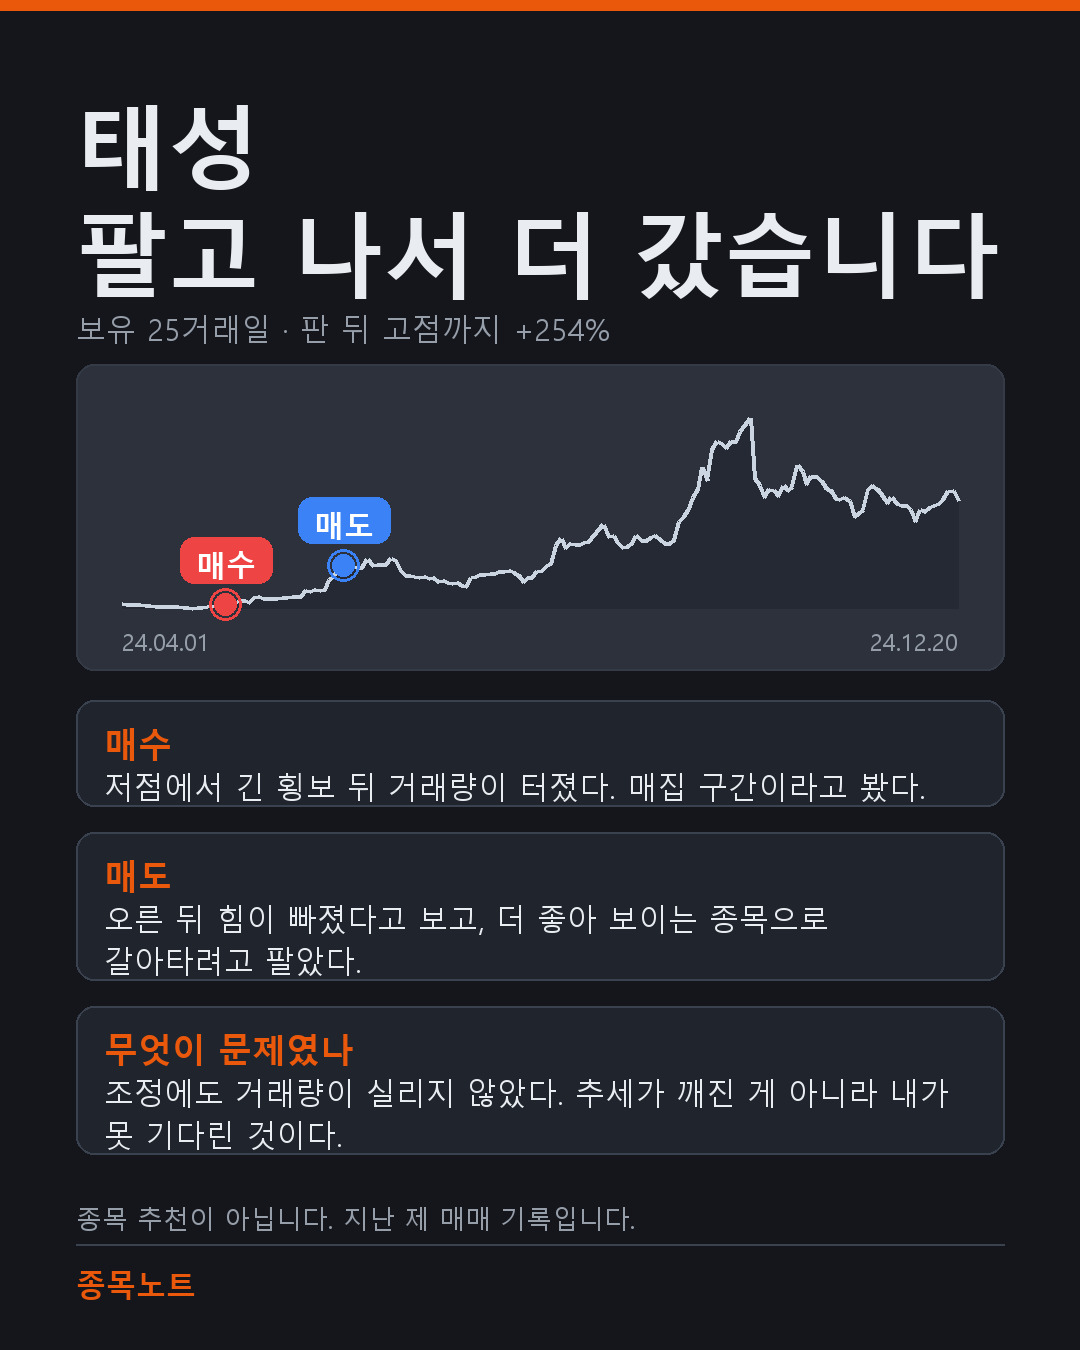
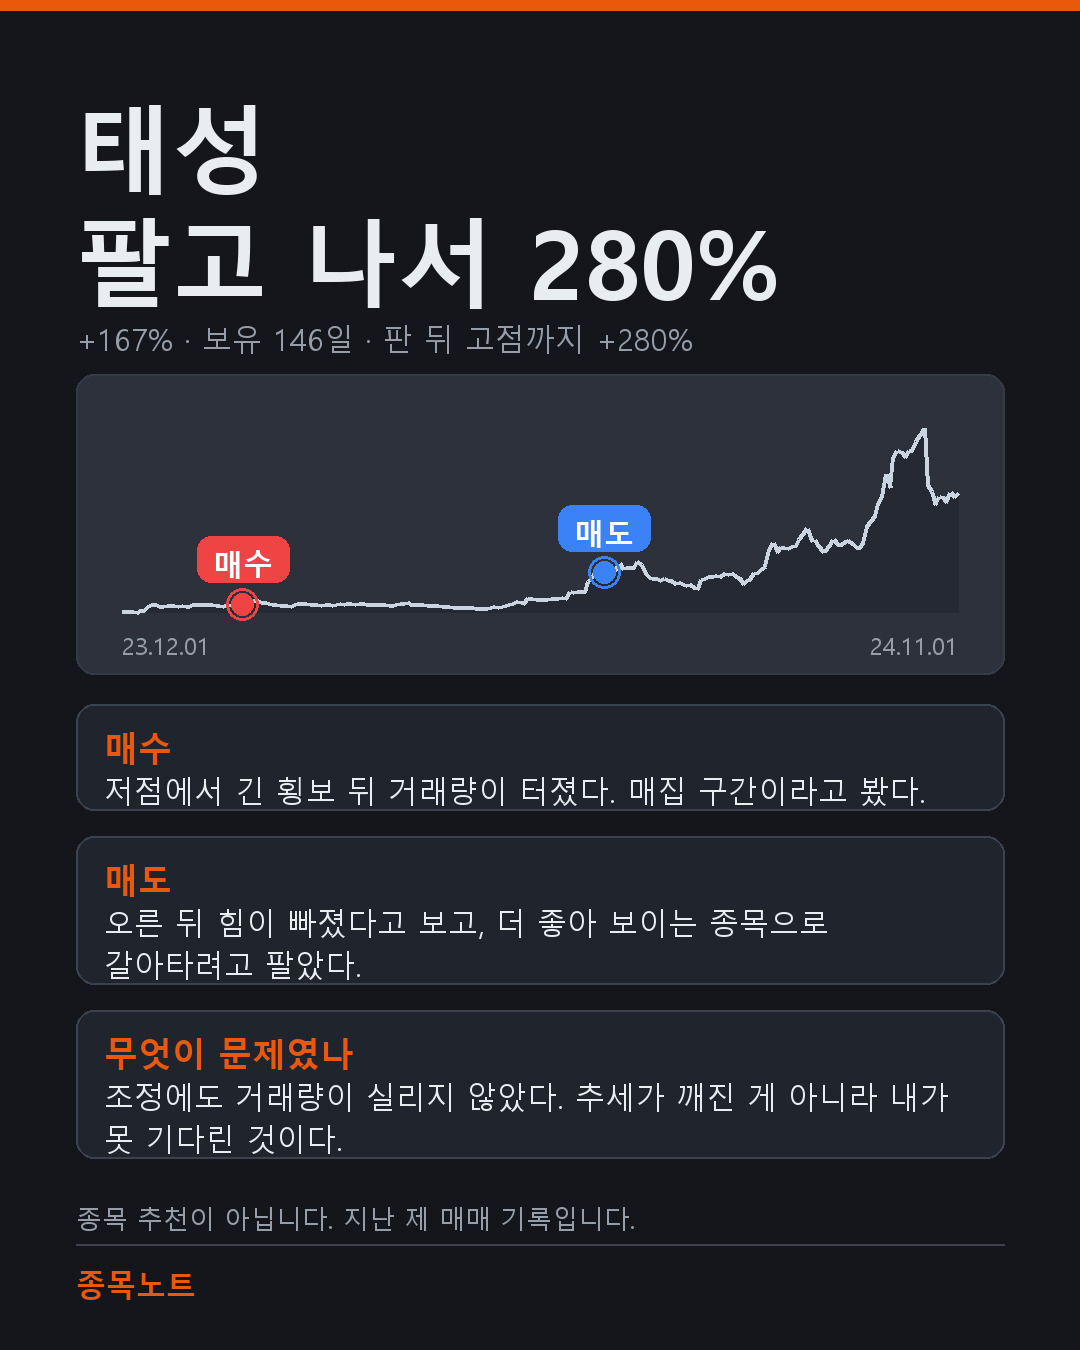
fix: 매매 기록을 주문내역 캡처로 맞추고 카드를 다시 뽑는다
증권사 주문내역 캡처에서 날짜와 체결가를 옮겨 적고, 그날의 저가~고가 안에
드는지 시세로 다시 맞춰 봤다.

태성 — 2024-01-19 500주 @4,350, 2024-02-20 130주 @4,200 매수.
2024-06-13 630주 @11,540 매도. 평균 매수 4,319원.
2023년과 2025년 같은 날짜는 가격대가 전혀 안 맞아 2024년으로 확정했다.

대원전선 — 2026-04-23 1,478주 @8,140 매수, 2026-05-04 739주 @18,000과
739주 @17,000 매도. 8,140원이 그 가격대에 든 날은 2026-04-23·24 이틀뿐이라
날짜가 하나로 좁혀졌다.

**글에 적힌 수익률이 실제와 다르다.**

  태성   글 "200% 먹고 팔았는데 400% 더 갔다"
         실제 +167% 에 팔았고, 판 자리에서 +280% 더 갔다
  대원   +115%, 판 뒤 이틀 더 올라 +16% 에서 꺾였다

카드는 실제 숫자로 만들었다. 대기열 글의 200%/400% 도 고쳐야 한다.

체결가를 적으면 그것으로 세도록 buy_price/sell_price 를 받는다. 종가로
재면 실제와 몇 %씩 어긋난다. 보유 기간은 달력 기준으로 쓴다 — 거래일로
쓰면 제목("11일 만에")과 어긋난다.

짧은 매매는 두 점이 붙어 라벨이 겹쳐서, 가까우면 좌우로 갈라 놓는다.

diff --git a/scripts/make_trade_cards.py b/scripts/make_trade_cards.py
@@ -54,7 +54,7 @@ def fetch_daily(code, start, end):
     raw = urllib.request.urlopen(req, timeout=30).read().decode("utf-8")
     rows = json.loads(raw.replace("'", '"'))
     # 첫 줄은 머리글이다
-    return [{"d": r[0], "c": r[4], "v": r[5]} for r in rows[1:] if r[4]]
+    return [{"d": r[0], "h": r[2], "l": r[3], "c": r[4], "v": r[5]} for r in rows[1:] if r[4]]
 
 
 def _at(rows, date):
@@ -90,13 +90,22 @@ def draw_chart(d, rows, box, buy_i, sell_i):
     f_tag = C._font(True, 30)
     f_small = C._font(False, 24)
 
-    def mark(i, color, label, above):
+    # 짧은 매매는 두 점이 붙어 라벨이 겹친다. 그때는 좌우로 갈라 놓는다.
+    close = abs(X(sell_i) - X(buy_i)) < 190
+
+    def mark(i, color, label, above, side=None):
         x, y = X(i), Y(rows[i]["c"])
         r = 11
         d.ellipse([x - r, y - r, x + r, y + r], fill=color)
         d.ellipse([x - r - 5, y - r - 5, x + r + 5, y + r + 5], outline=color, width=3)
         tw = d.textlength(label, font=f_tag)
-        bx = min(max(x - tw / 2 - 16, x0 + 16), x1 - tw - 48)
+        if side == "left":
+            bx = x - tw - 62
+        elif side == "right":
+            bx = x + 26
+        else:
+            bx = x - tw / 2 - 16
+        bx = min(max(bx, x0 + 16), x1 - tw - 48)
         by = y - 68 if above else y + 30
         # 바닥 근처에서 산 경우 아래로 붙이면 판을 뚫고 날짜와 겹친다.
         if by + 46 > py1 + 10:
@@ -106,8 +115,8 @@ def draw_chart(d, rows, box, buy_i, sell_i):
         d.rounded_rectangle([bx, by, bx + tw + 32, by + 46], radius=14, fill=color)
         d.text((bx + 16, by + 7), label, font=f_tag, fill=(255, 255, 255))
 
-    mark(buy_i, UP, "매수", False)
-    mark(sell_i, DOWN, "매도", True)
+    mark(buy_i, UP, "매수", False, "left" if close else None)
+    mark(sell_i, DOWN, "매도", True, "right" if close else None)
 
     # 기간만 적는다. 값은 안 적는다.
     def ymd(s):
@@ -124,8 +133,12 @@ def render(spec, out_path):
         raise SystemExit("%s: 봉이 %d개뿐입니다" % (spec["name"], len(rows)))
     buy_i, buy = _at(rows, spec["buy"])
     sell_i, sell = _at(rows, spec["sell"])
-    gain = (sell["c"] / buy["c"] - 1) * 100
-    after = (max(r["c"] for r in rows[sell_i:]) / sell["c"] - 1) * 100
+    # 체결가를 적어 두었으면 그것으로 센다. 종가로 재면 실제와 몇 %씩 어긋난다.
+    # 여러 번 나눠 샀으면 평균 단가를 적는다.
+    bp = spec.get("buy_price") or buy["c"]
+    sp = spec.get("sell_price") or sell["c"]
+    gain = (sp / bp - 1) * 100
+    after = (max(r["h"] for r in rows[sell_i:]) / sp - 1) * 100
 
     img = Image.new("RGB", (C.W, C.H), C.BG)
     d = ImageDraw.Draw(img)
@@ -137,7 +150,11 @@ def render(spec, out_path):
     y += 10
 
     f_sub = C._font(False, 30)
-    sub = "보유 %d거래일 · 판 뒤 고점까지 %+.0f%%" % (sell_i - buy_i, after)
+    # 보유 기간은 달력 기준으로 쓴다. 거래일로 쓰면 제목("11일 만에")과 어긋난다.
+    import datetime as _dt
+    _d = lambda s: _dt.date(int(s[:4]), int(s[4:6]), int(s[6:8]))
+    held = (_d(sell["d"]) - _d(buy["d"])).days
+    sub = "%+.0f%% · 보유 %d일 · 판 뒤 고점까지 %+.0f%%" % (gain, held, after)
     d.text((C.PAD, y), sub, font=f_sub, fill=C.FG_DIM)
     y += 56
 
